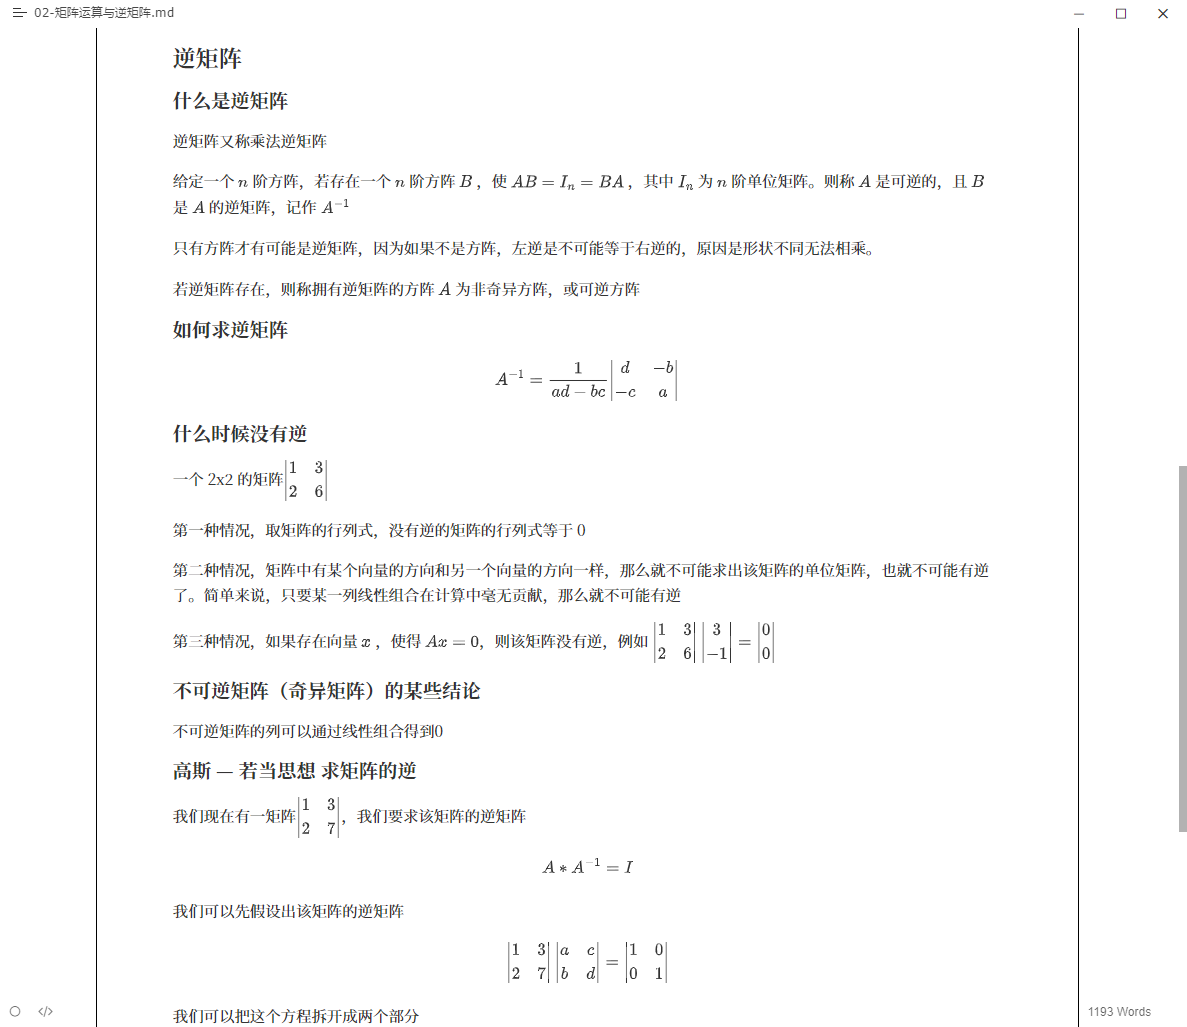
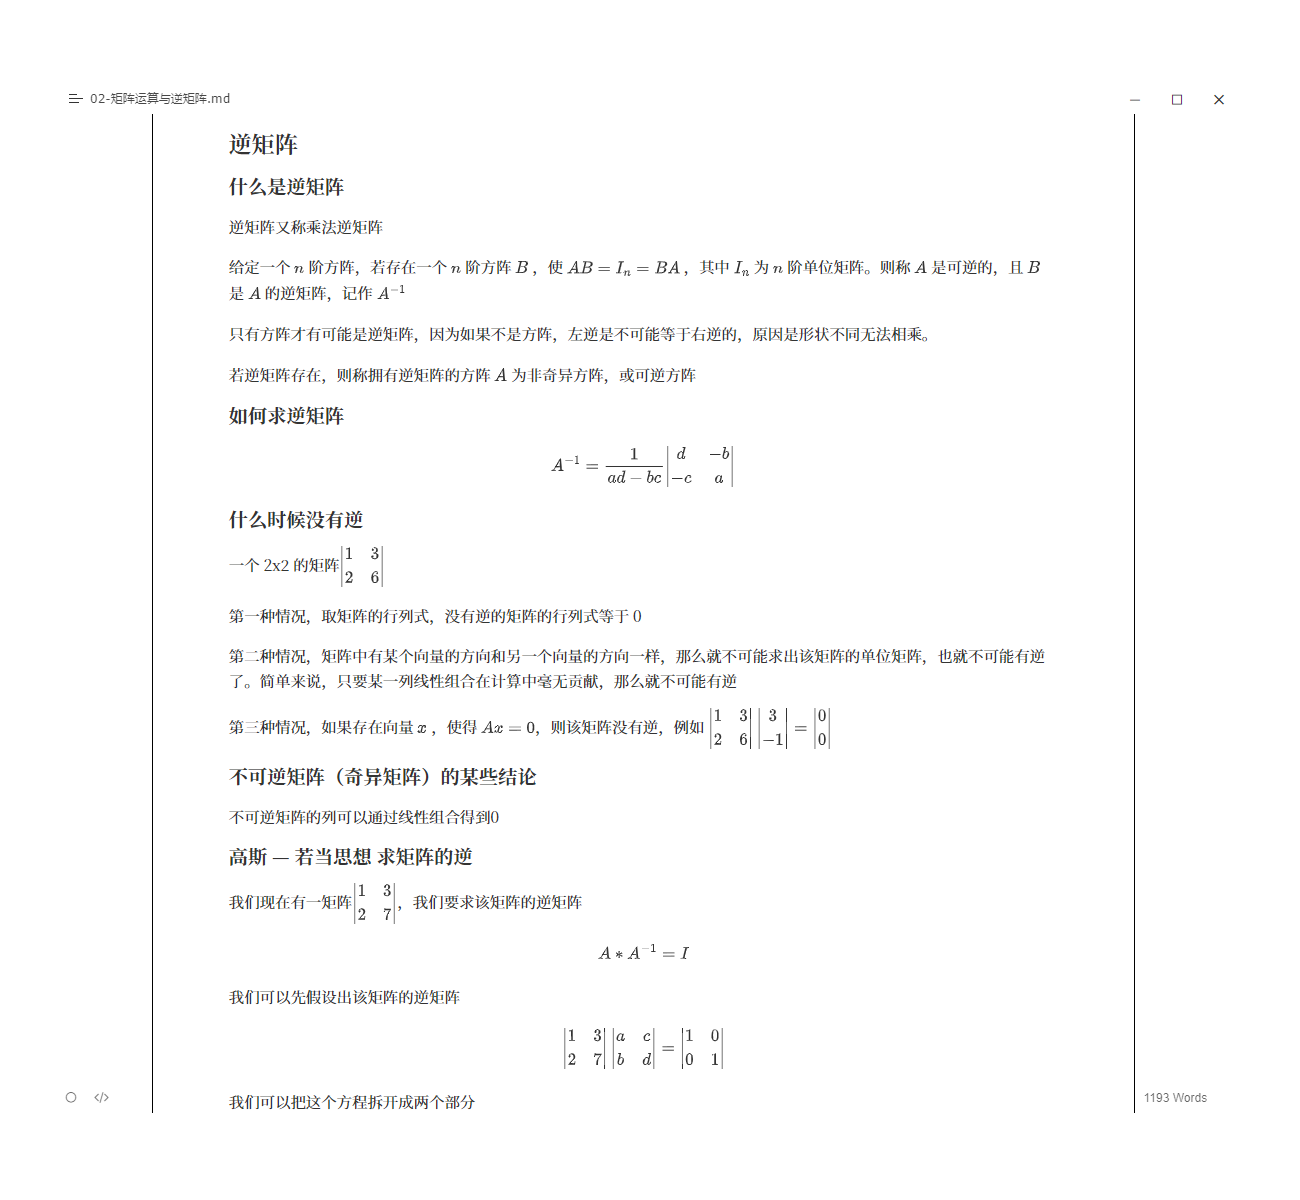
change default font and  code color

diff --git a/novel-tex.css b/novel-tex.css
@@ -3,65 +3,65 @@
 /*
 NovelTex 基于Typora-Latex进行修改，
 Typora-Latex：https://github.com/Keldos-Li/typora-latex-theme
+
+字体链接
+思源宋体：https://github.com/adobe-fonts/source-han-serif/releases/tag/2.002R
+JetBrainsMono：https://www.jetbrains.com/lp/mono/
+*/
+
+/*
+em 单位为一个正文字符（--base-font-size）大小，
+例如，如果您设置 --base-font-size 为 9.5pt，那么 1.05em = 1.05*9.5pt ≈ 10pt。下面的标题字体等设置也遵循该规则。
+这样，您就可以仅通过调整基准字体大小，而动态对其他元素大小做出调整。
+当然，您也可以直接设置以pt或px为单位的数值，将元素的大小固定下来，如 --quote-font-size: 10pt;
 */
 
 :root {
   /* == 字体设置 == */
-  --base-Latin-font: "Latin Modern Roman", "Latin Modern Roman 10", "Source Han Serif CN", "Source Han Serif TC", Times;
-  --base-Chinese-font: "Source Han Serif CN", "Source Han Serif SC", "Source Han Serif TC";
-  --base-font-size: 1.1em;
-  --quote-font: "Latin Modern Roman", "Latin Modern Roman 10", Times, "Times New Roman","Source Han Serif CN", "Source Han Serif SC"; /* 引言字体 */
-  /* em单位为一个正文字符（--base-font-size）大小，
-  例如，如果您设置 --base-font-size 为 9.5pt，那么 1.05em = 1.05*9.5pt ≈ 10pt。下面的标题字体等设置也遵循该规则。
-  这样，您就可以仅通过调整基准字体大小，而动态对其他元素大小做出调整。
-  当然，您也可以直接设置以pt或px为单位的数值，将元素的大小固定下来，如 --quote-font-size: 10pt; */
-  --quote-font-size: 1.05em;
-  --code-font: "JetBrains Mono";                /* 代码字体（代码中的中文会调用 ui-font） */
-  --ui-font: "微软雅黑";                         /* 侧边栏字体 */
-  --sourceMode-font: "微软雅黑";       /* source mode 字体 */
-  /* 目录字体 */
-  /* 默认调用 base-font */
-  --toc-font: "";
-  /* 默认调用 base-font-size */
-  --toc-font-size: "";
-  
-  --math-font-size: 1em;  /* 公式字体 */
-  --table-title-font: ""; /* 表格字体（默认调用 heading-font） */
+  --base-Latin-font: "Source Han Serif SC";
+  --base-Chinese-font: "Source Han Serif SC", "Source Han Serif TC";
+  --base-font-size: 1.15em;
+  --quote-font: "Source Han Serif SC";                    /* 引言字体 */
+  --quote-font-size: 1em;
+  --ui-font: "Source Han Serif SC";                       /* 侧边栏字体 */
+  --code-font: "JetBrains Mono",var(--base-Chinese-font); /* 代码字体（代码中的中文会调用 ui-font） */
+  --code-font-size: 0.95em;
+  --code-inline-font-size: 0.95em;
+  --sourceMode-font: var(--base-Chinese-font);            /* source mode 字体 */
+  --toc-font: "";                                         /* 目录字体（默认调用 base-font） */
+  --toc-font-size: "";                                    /* 默认调用 base-font-size */
+  --math-font-size: 1em;                                  /* 公式字体 */
+  --table-title-font: "";                                 /* 表格字体（默认调用 heading-font） */
   --table-font: "";
-  /* 标题字体（总设置） */
-  --heading-Latin-font: var(--base-Latin-font);
+
+  --heading-Latin-font: var(--base-Latin-font);           /* 标题字体（总设置）*/
   --heading-Chinese-font: var(--base-Chinese-font);
-  /* == 标题字体 == */
-  --h1-Chinese-font: var(--base-Chinese-font);  /* h1字体 */
+  --h1-Chinese-font: var(--base-Chinese-font);            /* h1字体 */
   --h1-font-size: 1.9em;
-  --h2-Chinese-font: var(--base-Chinese-font); /* h2字体 */
+  --h2-Chinese-font: var(--base-Chinese-font);            /* h2字体 */
   --h2-font-size: 1.5em;
-  --h3-Chinese-font: var(--base-Chinese-font); /* h3字体 */
+  --h3-Chinese-font: var(--base-Chinese-font);            /* h3字体 */
   --h3-font-size: 1.25em;
-  --h4-Chinese-font: var(--base-Chinese-font); /* h4字体 */
+  --h4-Chinese-font: var(--base-Chinese-font);            /* h4字体 */
   --h4-font-size: 1.15em;
-  --h5-Chinese-font: var(--base-Chinese-font); /* h5字体 */
+  --h5-Chinese-font: var(--base-Chinese-font);            /* h5字体 */
   --h5-font-size: 1.10em;
-  --h6-Chinese-font: var(--base-Chinese-font); /* h6字体 */
-  --h6-font-size: 1.05em;
-  /* 粗体样式设置 */
-  /* 加粗风格时使用的字重；400等同于 normal，700等同于 bold，900等同于 heavy */
-  --strong-weight: 900;
-  --base-line-height: 1.618em;  /* 基础行距 */
-  /* == 页面设置 == */
-  --set-margin: 1.8cm 2cm 1.2cm 2cm !important; /* 打印页边距 */
-  /* == 控制设置 == */
-  --toc-show-title: none; /* 目录中是否显示一级标题 */
-  /* == 颜色设置 == */
-  --link-color-light: #2E67D3;  /* 超链接颜色 */
+  --h6-Chinese-font: var(--base-Chinese-font);            /* h6字体 */
+  --h6-font-size: 1.10em;
+
+  --strong-weight: 900;                                   /* 粗体样式设置（normal: 400，bold: 700，heavy: 900） */
+  --base-line-height: 1.618em;                            /* 基础行距 */
+  --set-margin: 1.8cm 2cm 1.8cm 2cm !important;           /* 打印页边距 */
+  --toc-show-title: none;                                 /* 目录中是否显示一级标题 */
+  --link-color-light: #7E8B92;                          /* 超链接颜色 */
   --link-color-dark: #8bb1f9;
 
   /* == mermaid 设置 == */
-  --mermaid-theme: neutral;           /*or base, dark, forest, neutral, night */
+  --mermaid-theme: neutral;                               /* base, dark, forest, neutral, night */
+  --mermaid-sequence-numbers: off;                        /* "off" "on" */
+  --mermaid-flowchart-curve: linear                       /* "linear" "basis" */;
   --mermaid-font-family: var(--base-Chinese-font);
-  --mermaid-sequence-numbers: off;    /* or "on", see https://mermaid-js.github.io/mermaid/#/sequenceDiagram?id=sequencenumbers*/
-  --mermaid-flowchart-curve: linear   /* or "basis", see https://github.com/typora/typora-issues/issues/1632*/;
-  --mermaid--gantt-left-padding: 75;  /* see https://github.com/typora/typora-issues/issues/1665*/
+  --mermaid--gantt-left-padding: 75;
 }
 
 body {
@@ -69,11 +69,10 @@ body {
   margin: 0 !important;
 }
 
-
 #write {
   font-family: var(--base-Latin-font), var(--base-Chinese-font), serif;
   font-size: var(--base-font-size);
-  max-width: 26cm;  /* A4标准宽度 */
+  max-width: 26cm;
   background-color: white;
 }
 
@@ -98,8 +97,7 @@ hr {
 }
 
 img {
-  /* 避免图片在导出时被断开 */
-  page-break-inside: avoid;
+  page-break-inside: avoid;                               /* 避免图片在导出时被断开 */
 }
 
 strong {
@@ -128,8 +126,8 @@ strong {
   list-style: none;
 }
 
-/* 元数据（如 YAML front matter）的背景框 */
 pre.md-meta-block {
+  /* 元数据（如 YAML front matter）的背景框 */
   background: #cccccc;
   padding: 1.4em;
   font-family: var(--code-font), var(--ui-font), monospace;
@@ -176,12 +174,12 @@ pre.md-meta-block {
 #write h6 {
   font-family: var(--heading-Latin-font), var(--h6-Chinese-font), serif;
   font-size: var(--h6-font-size);
-  /* 没有写错，为了避免行距太小才这么写 */
-  line-height: var(--h5-font-size);
+  line-height: var(--h5-font-size);                       /* 没有写错，为了避免行距太小才这么写 */
 }
 
-/* 参考文献（脚注）块 */
+
 .footnotes {
+  /* 参考文献（脚注）块 */
   font-size: 0.95em;
 }
 
@@ -299,10 +297,8 @@ blockquote {
   font-style: normal;
   font-family: var(--quote-font), var(--base-Latin-font), var(--base-Chinese-font), -apple-system, serif;
   font-size: var(--quote-font-size);
-  /* 文字离左边框的距离 */
-  padding-left: 2em;
-  padding-right: 2em;
-  /* 左边框离页面边的距离 */
+  padding-left: 2em;                                      /* 文字离左边框的距离 */
+  padding-right: 2em;                                     /* 左边框离页面边的距离 */
   margin-left: 0;
 }
 
@@ -322,52 +318,55 @@ blockquote blockquote {
   border-radius: 0;
 }
 
-/* 行内代码 */
+/* == 代码 == */
 code {
+  /* 行内代码 */
   font-family: var(--code-font), var(--ui-font), monospace;
+  font-size: var(--base-font-size);
 }
 
 h1 code, h2 code, h3 code, h4 code, h5 code, h6 code,
 p code,
 li code {
-  color: #3c70c6;
+
+  color: #7E8B92;
   background-color: #fefefe;
-  /* 阴影 */
-  box-shadow: 0 0 1px 1px #c8d3df;
-  font-family: var(--code-font), var(--ui-font), monospace;
+  box-shadow: 0 0 1px 1px #c8d3df;                        /* 阴影 */
+  font-family: var(--code-font);
+  font-size: var(--code-inline-font-size);
   box-sizing: border-box;
   border-right: 0px;
   margin: 0 2px 0 2px;
-  padding: 0 2px 0 2px;
-  /* 圆角 */
-  border-radius: 2px 2px 2px 2px;
+  padding: 0 1px 0 px;
+  border-radius: 0px;                                       /* 圆角 */
 }
 
 /* 代码块 */
 .md-fences {
-  border: 1px solid #727272; /* 代码块的边框样式 */
-  padding: 10px;                /* 代码与边框的距离 */
-  /* border-radius: 5px;      /* 边框圆角 */
+  font-size: var(--code-font-size);
+  border: 1px solid #727272;                              /* 代码块的边框样式 */
+  padding: 10px;                                            /* 代码与边框的距离 */
+  border-radius: 0px;                                       /* 边框圆角 */
 }
 .md-fences,
 .CodeMirror pre {
-  font-size: 1em;
+  font-size: var(--code-font-size);
 }
 
-.CodeMirror-wrap {
-  /* padding: 10px; */
-  font-size: 1em;
-}
+/* .CodeMirror-wrap {
+  padding: 10px;
+  font-size: var(--code-font-size);
+} */
 
 .CodeMirror-code pre {
   font-family: var(--code-font), var(--ui-font), monospace;
 }
 
-/* 目录 */
+/* == 目录 == */
 .md-toc {
   font-size: var(--toc-font-size);
-  border: 1px solid #ccc; /* 整个代码块的边框样式 */
-  /* border-radius: 5px; 可选：添加圆角 */
+  border: 1px solid #ccc;                                 /* 整个代码块的边框样式 */
+  border-radius: 0px;                                       /*可选：添加圆角 */
 }
 
 .md-toc-content {
@@ -377,7 +376,7 @@ li code {
 }
 
 .md-toc-inner {
-  /* margin-left: 0 !important; */
+  margin-left: 0 !important;
   color: var(--text-color) !important;
 }
 

diff --git a/README.md b/README.md
@@ -1,3 +1,7 @@
+<div align=center>
+<img src="./.assets/novel-tex-logo.png">
+</div>
+
 # Novel Tex
 
 > Novel Tex 是基于 [typora-latex-theme](https://github.com/Keldos-Litypora-latex-theme/) 的修改版本，沿用 GPL 3.0 许可证。
